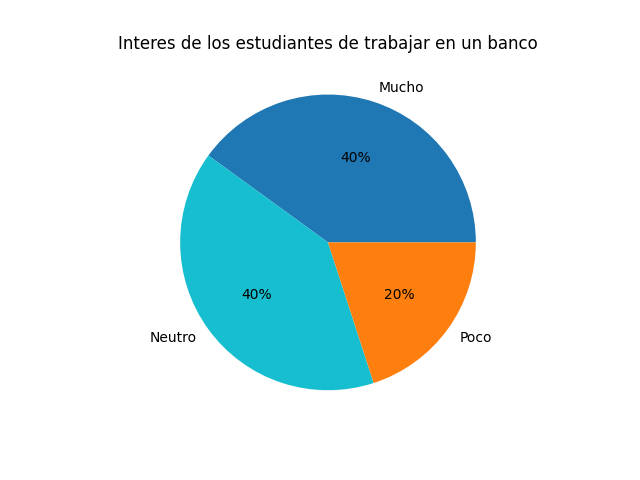
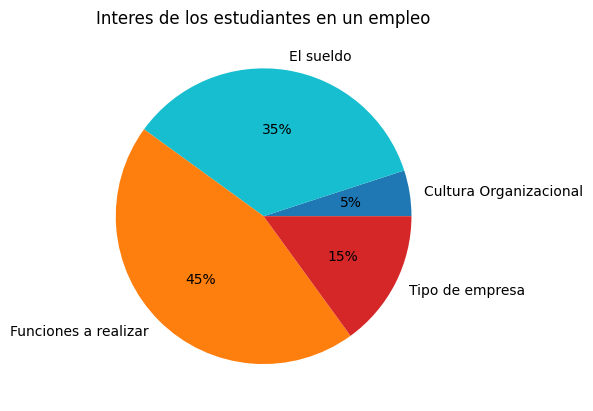
Interes de estudiantes en un empleo

diff --git a/make_graphics.py b/make_graphics.py
@@ -30,6 +30,7 @@ fre_aprendizaje_nueva_tec_es = []
 
 # Interes en el sector banacario
 interes_estudiates = []
+interes_para_trabajar = []
 
 ############## Variables Bancos ##############
 
@@ -73,6 +74,7 @@ for individuo in estudiantes:
 
     #Interes en el sector bancario
     interes_estudiates.append(individuo["¿Qué tanto le interesa trabajar en el sector bancario?"])
+    interes_para_trabajar.append(individuo["Al momento de buscar empleo ¿qué le interesa más?"])
 
 
 ################ Datos de los empleados ################
@@ -232,21 +234,24 @@ plt.clf()
 
 ############ Interes de los estudiantes en el sector banacario ############
 interes_estudiates = np.array(interes_estudiates)
-interes_set, fre_interes = np.unique(interes_estudiates, return_counts=True) 
+
+
+############ Interes de los estudiantes para trabajar en el sector banacario ############
+interes_para_trabajar = np.array(interes_para_trabajar)
+interes_set, fre_interes = np.unique(interes_para_trabajar, return_counts=True) 
 
 fre_interes = (fre_interes / len(estudiantes)) * 100
 
 fig, ax = plt.subplots()
 ax.pie(fre_interes, labels=interes_set, colors=['tab:blue', 'tab:cyan', 'tab:orange', 'tab:red'], autopct='%.0f%%' )
 
-plt.title("Interes de los estudiantes de trabajar en un banco")
+plt.title("Interes de los estudiantes en un empleo")
 
 plt.savefig("./fig/interes_estudiates_trabajo_banco.png", dpi=None, facecolor='w', edgecolor='w',
         orientation='portrait', format=None,
-        transparent=False, bbox_inches=None, pad_inches=0.1,
+        transparent=False, bbox_inches='tight', pad_inches=0.1,
         metadata=None)
 plt.clf()
-
 
 
 
